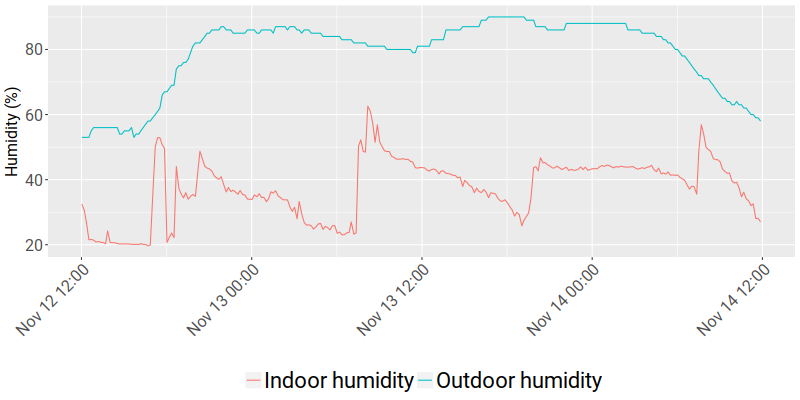
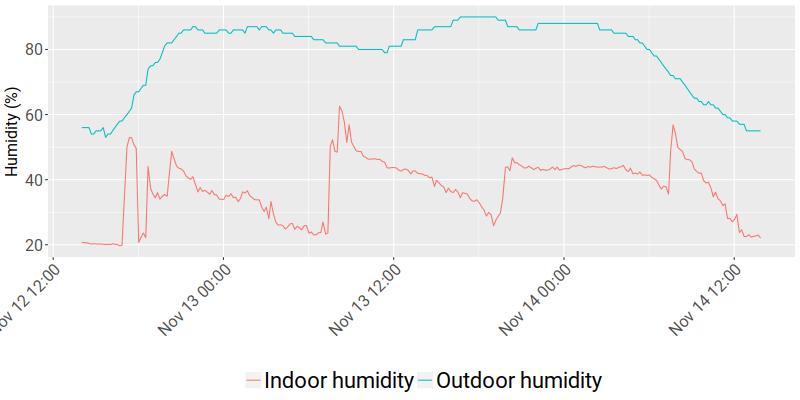
Update live temperature on site

diff --git a/temperature.js b/temperature.js
@@ -1,1 +1,1 @@
-document.write("<h4>Inside Temperature: 19.0°C</h4><h4>Outside Temperature: 6.73°C</h4><h4>Fermenter 1 Temperature: 85.0°C</h4><h4>Fermenter 2 Temperature: 18.81°C</h4><h4>Inside Humidity: 27.05%</h4><h4>Outside Humidity: 58.0%</h4><br>Last update: 2017-11-14 11:52:15");
+document.write("<h4>Inside Temperature: 19.0°C</h4><h4>Outside Temperature: 7.44°C</h4><h4>Fermenter 1 Temperature: 85.0°C</h4><h4>Fermenter 2 Temperature: 18.81°C</h4><h4>Inside Humidity: 22.06%</h4><h4>Outside Humidity: 55.0%</h4><br>Last update: 2017-11-14 13:51:24");
